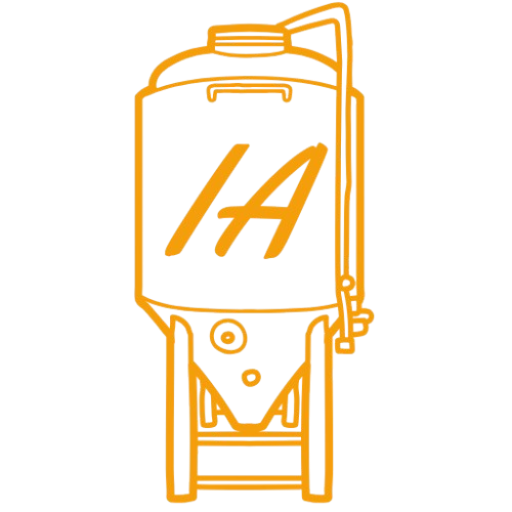
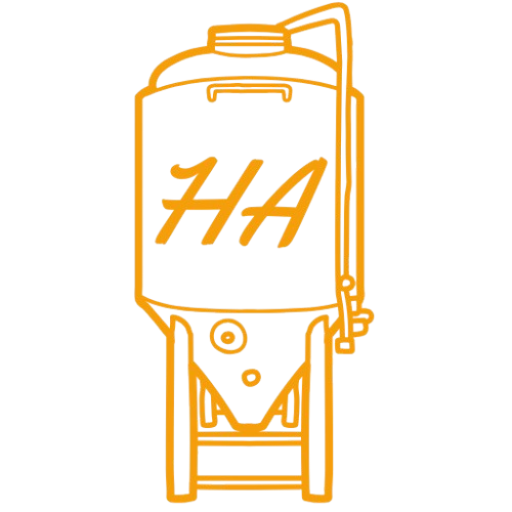
cambio de nombre espero sea el ultimo

Changed region(s): [[0.2812, 0.2812, 0.6562, 0.5312]]

diff --git a/index.html b/index.html
@@ -3,8 +3,8 @@
 <head>
   <meta charset="UTF-8" />
   <meta name="viewport" content="width=device-width, initial-scale=1.0" />
-  <title>INITIUM ALCOHOLIS — Control de Fermentación Artesanal</title>
-  <meta name="description" content="INITIUM ALCOHOLIS es el sistema de control de procesos para la elaboración de productos alcohólicos artesanales obtenidos por fermentación. Hidromiel, vino de caña y mucho más." />
+  <title>HAYAYAKU — Control de Fermentación Artesanal</title>
+  <meta name="description" content="HAYAYAKU es el sistema de control de procesos para la elaboración de productos alcohólicos artesanales obtenidos por fermentación. Hidromiel, vino de caña y mucho más." />
   <link rel="preconnect" href="https://fonts.googleapis.com" />
   <link rel="preconnect" href="https://fonts.gstatic.com" crossorigin />
   <link href="https://fonts.googleapis.com/css2?family=Inter:wght@400;500;600;700;800&display=swap" rel="stylesheet" />
@@ -23,15 +23,15 @@
     <div class="container nav-inner">
       <a href="#" class="brand">
         <span class="brand-icon">
-          <img src="assets/images/favicon-32x32.png" alt="INITIUM ALCOHOLIS logo" />
+          <img src="assets/images/favicon-32x32.png" alt="HAYAYAKU logo" />
         </span>
-        <span class="brand-name">INITIUM ALCOHOLIS</span>
+        <span class="brand-name">HAYAYAKU</span>
       </a>
       <div class="nav-links">
         <a href="#features" class="nav-link">Características</a>
         <a href="#products" class="nav-link">Fermentos</a>
         <a href="#tech" class="nav-link">Tecnología</a>
-        <a href="https://webapp.INITIUM ALCOHOLIS.com" class="btn btn-primary nav-cta" target="_blank" rel="noopener">Ir a la App</a>
+        <a href="https://webapp.HAYAYAKU.com" class="btn btn-primary nav-cta" target="_blank" rel="noopener">Ir a la App</a>
       </div>
       <button class="nav-toggle" id="navToggle" aria-label="Menú">
         <span></span><span></span><span></span>
@@ -41,7 +41,7 @@
       <a href="#features" class="nav-mobile-link">Características</a>
       <a href="#products" class="nav-mobile-link">Fermentos</a>
       <a href="#tech" class="nav-mobile-link">Tecnología</a>
-      <a href="https://webapp.INITIUM ALCOHOLIS.com" class="btn btn-primary w-full" target="_blank" rel="noopener">Ir a la App</a>
+      <a href="https://webapp.HAYAYAKU.com" class="btn btn-primary w-full" target="_blank" rel="noopener">Ir a la App</a>
     </div>
   </nav>
 
@@ -64,12 +64,12 @@
         <span class="text-gradient">fermentativo</span>
       </h1>
       <p class="hero-subtitle animate-fade-in delay-2">
-        INITIUM ALCOHOLIS es el sistema de gestión diseñado para productores artesanales que elaboran
+        HAYAYAKU es el sistema de gestión diseñado para productores artesanales que elaboran
         bebidas alcohólicas por fermentación. Registra lotes, controla etapas y lleva
         un historial completo de cada fermento.
       </p>
       <div class="hero-actions animate-fade-in delay-3">
-        <a href="https://webapp.INITIUM ALCOHOLIS.com" class="btn btn-primary btn-lg" target="_blank" rel="noopener">
+        <a href="https://webapp.HAYAYAKU.com" class="btn btn-primary btn-lg" target="_blank" rel="noopener">
           Comenzar ahora
           <svg viewBox="0 0 24 24" fill="none" stroke="currentColor" stroke-width="2"><path d="M5 12h14M12 5l7 7-7 7"/></svg>
         </a>
@@ -107,7 +107,7 @@
         <h2 class="section-title">Todo lo que necesita un maestro fermentador</h2>
         <p class="section-subtitle">
           Desde el primer pesado de ingredientes hasta el embotellado final,
-          INITIUM ALCOHOLIS acompaña cada etapa con precisión.
+          HAYAYAKU acompaña cada etapa con precisión.
         </p>
       </div>
       <div class="features-grid">
@@ -234,7 +234,7 @@
           <span class="section-tag">Infraestructura</span>
           <h2 class="section-title text-left">Respaldado por Amazon Web Services</h2>
           <p class="section-subtitle text-left">
-            INITIUM ALCOHOLIS no es solo una aplicación, es una plataforma construida sobre la
+            HAYAYAKU no es solo una aplicación, es una plataforma construida sobre la
             infraestructura más confiable del mundo. AWS garantiza que tus datos y
             procesos estén disponibles cuando más los necesitas.
           </p>
@@ -296,11 +296,11 @@
     <div class="container cta-inner">
       <h2 class="cta-title animate-on-scroll">¿Listo para tomar el control de tus fermentos?</h2>
       <p class="cta-subtitle animate-on-scroll delay-1">
-        Únete a los productores artesanales que ya gestionan sus elaboraciones con INITIUM ALCOHOLIS.
+        Únete a los productores artesanales que ya gestionan sus elaboraciones con HAYAYAKU.
         Empieza hoy, es gratis.
       </p>
-      <a href="https://webapp.INITIUM ALCOHOLIS.com" class="btn btn-white btn-lg animate-on-scroll delay-2" target="_blank" rel="noopener">
-        Acceder a INITIUM ALCOHOLIS
+      <a href="https://webapp.HAYAYAKU.com" class="btn btn-white btn-lg animate-on-scroll delay-2" target="_blank" rel="noopener">
+        Acceder a HAYAYAKU
         <svg viewBox="0 0 24 24" fill="none" stroke="currentColor" stroke-width="2"><path d="M5 12h14M12 5l7 7-7 7"/></svg>
       </a>
     </div>
@@ -312,9 +312,9 @@
       <div class="footer-brand">
         <a href="#" class="brand">
           <span class="brand-icon">
-            <img src="assets/images/favicon-32x32.png" alt="INITIUM ALCOHOLIS logo" />
+            <img src="assets/images/favicon-32x32.png" alt="HAYAYAKU logo" />
           </span>
-          <span class="brand-name">INITIUM ALCOHOLIS</span>
+          <span class="brand-name">HAYAYAKU</span>
         </a>
         <p class="footer-tagline">Control de fermentación artesanal.</p>
       </div>
@@ -322,10 +322,10 @@
         <a href="#features">Características</a>
         <a href="#products">Fermentos</a>
         <a href="#tech">Tecnología</a>
-        <a href="https://webapp.INITIUM ALCOHOLIS.com" target="_blank" rel="noopener">App</a>
+        <a href="https://webapp.HAYAYAKU.com" target="_blank" rel="noopener">App</a>
       </div>
       <p class="footer-copy">
-        © 2026 INITIUM ALCOHOLIS. Hecho con ❤ para productores artesanales. Diseñado y administrador por 
+        © 2026 HAYAYAKU. Hecho con ❤ para productores artesanales. Diseñado y administrador por 
         <a href="https://mauloasan.com" target="_blank" rel="noopener">Mauloasan</a>
       </p>
     </div>
